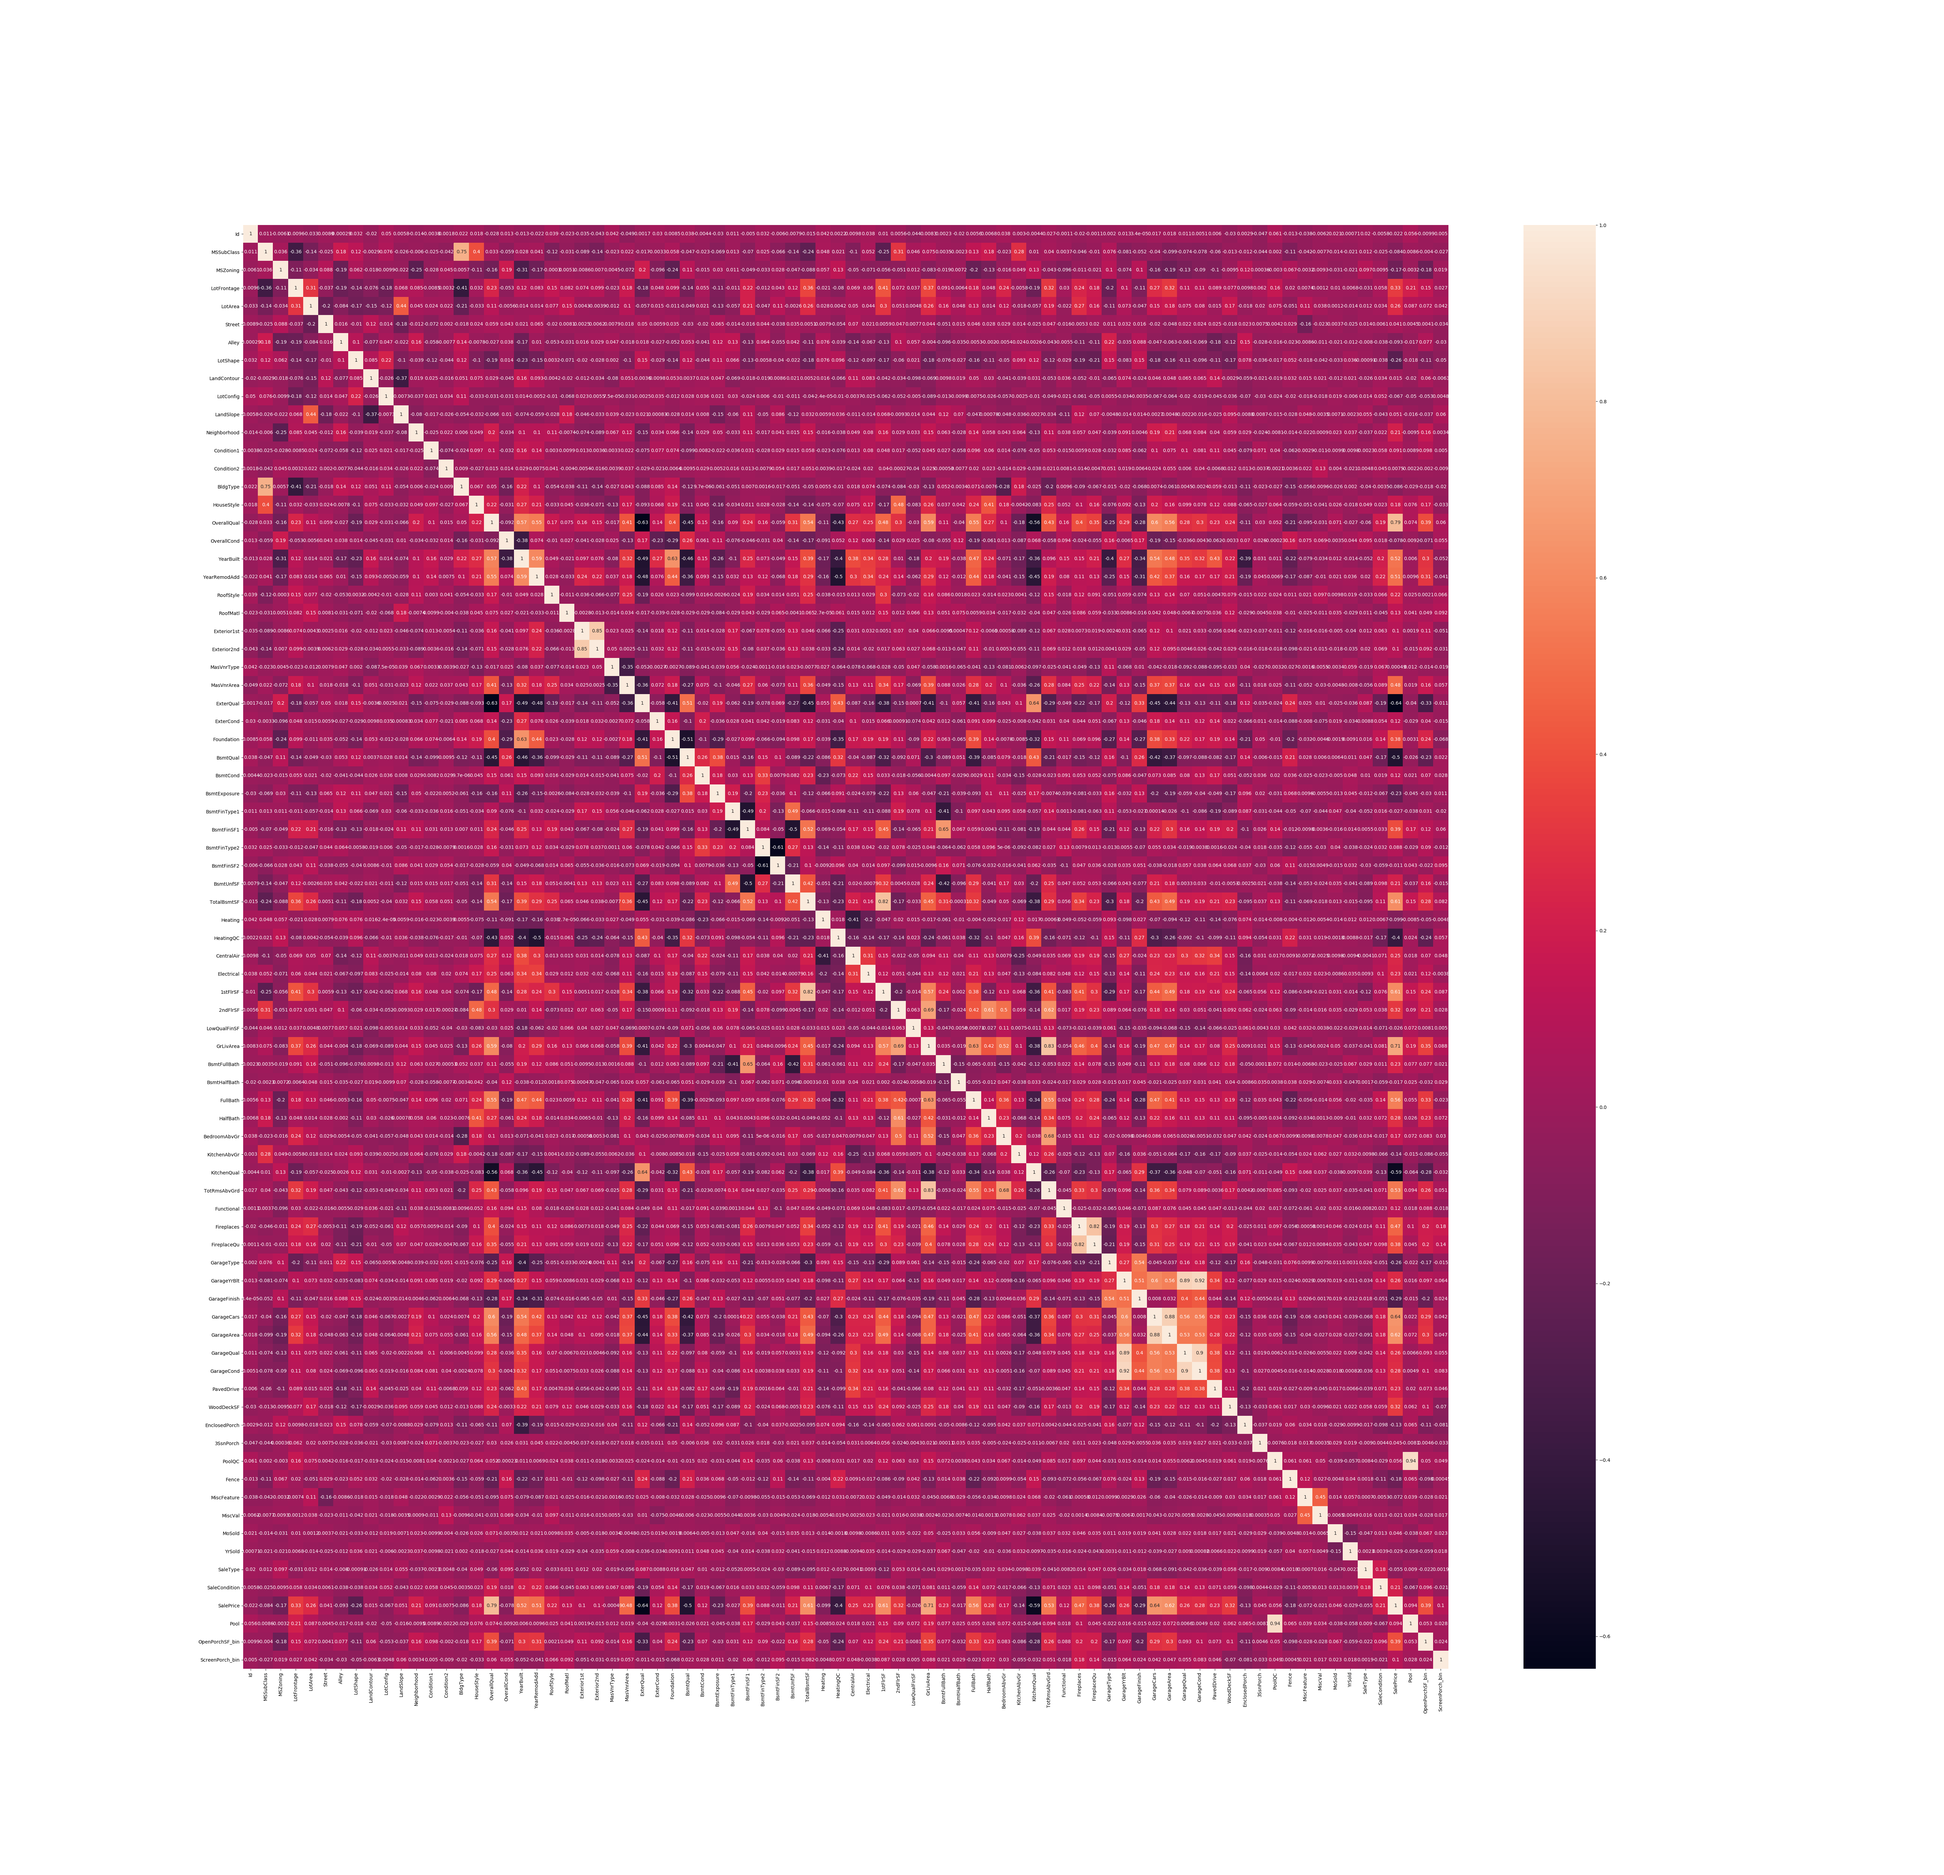
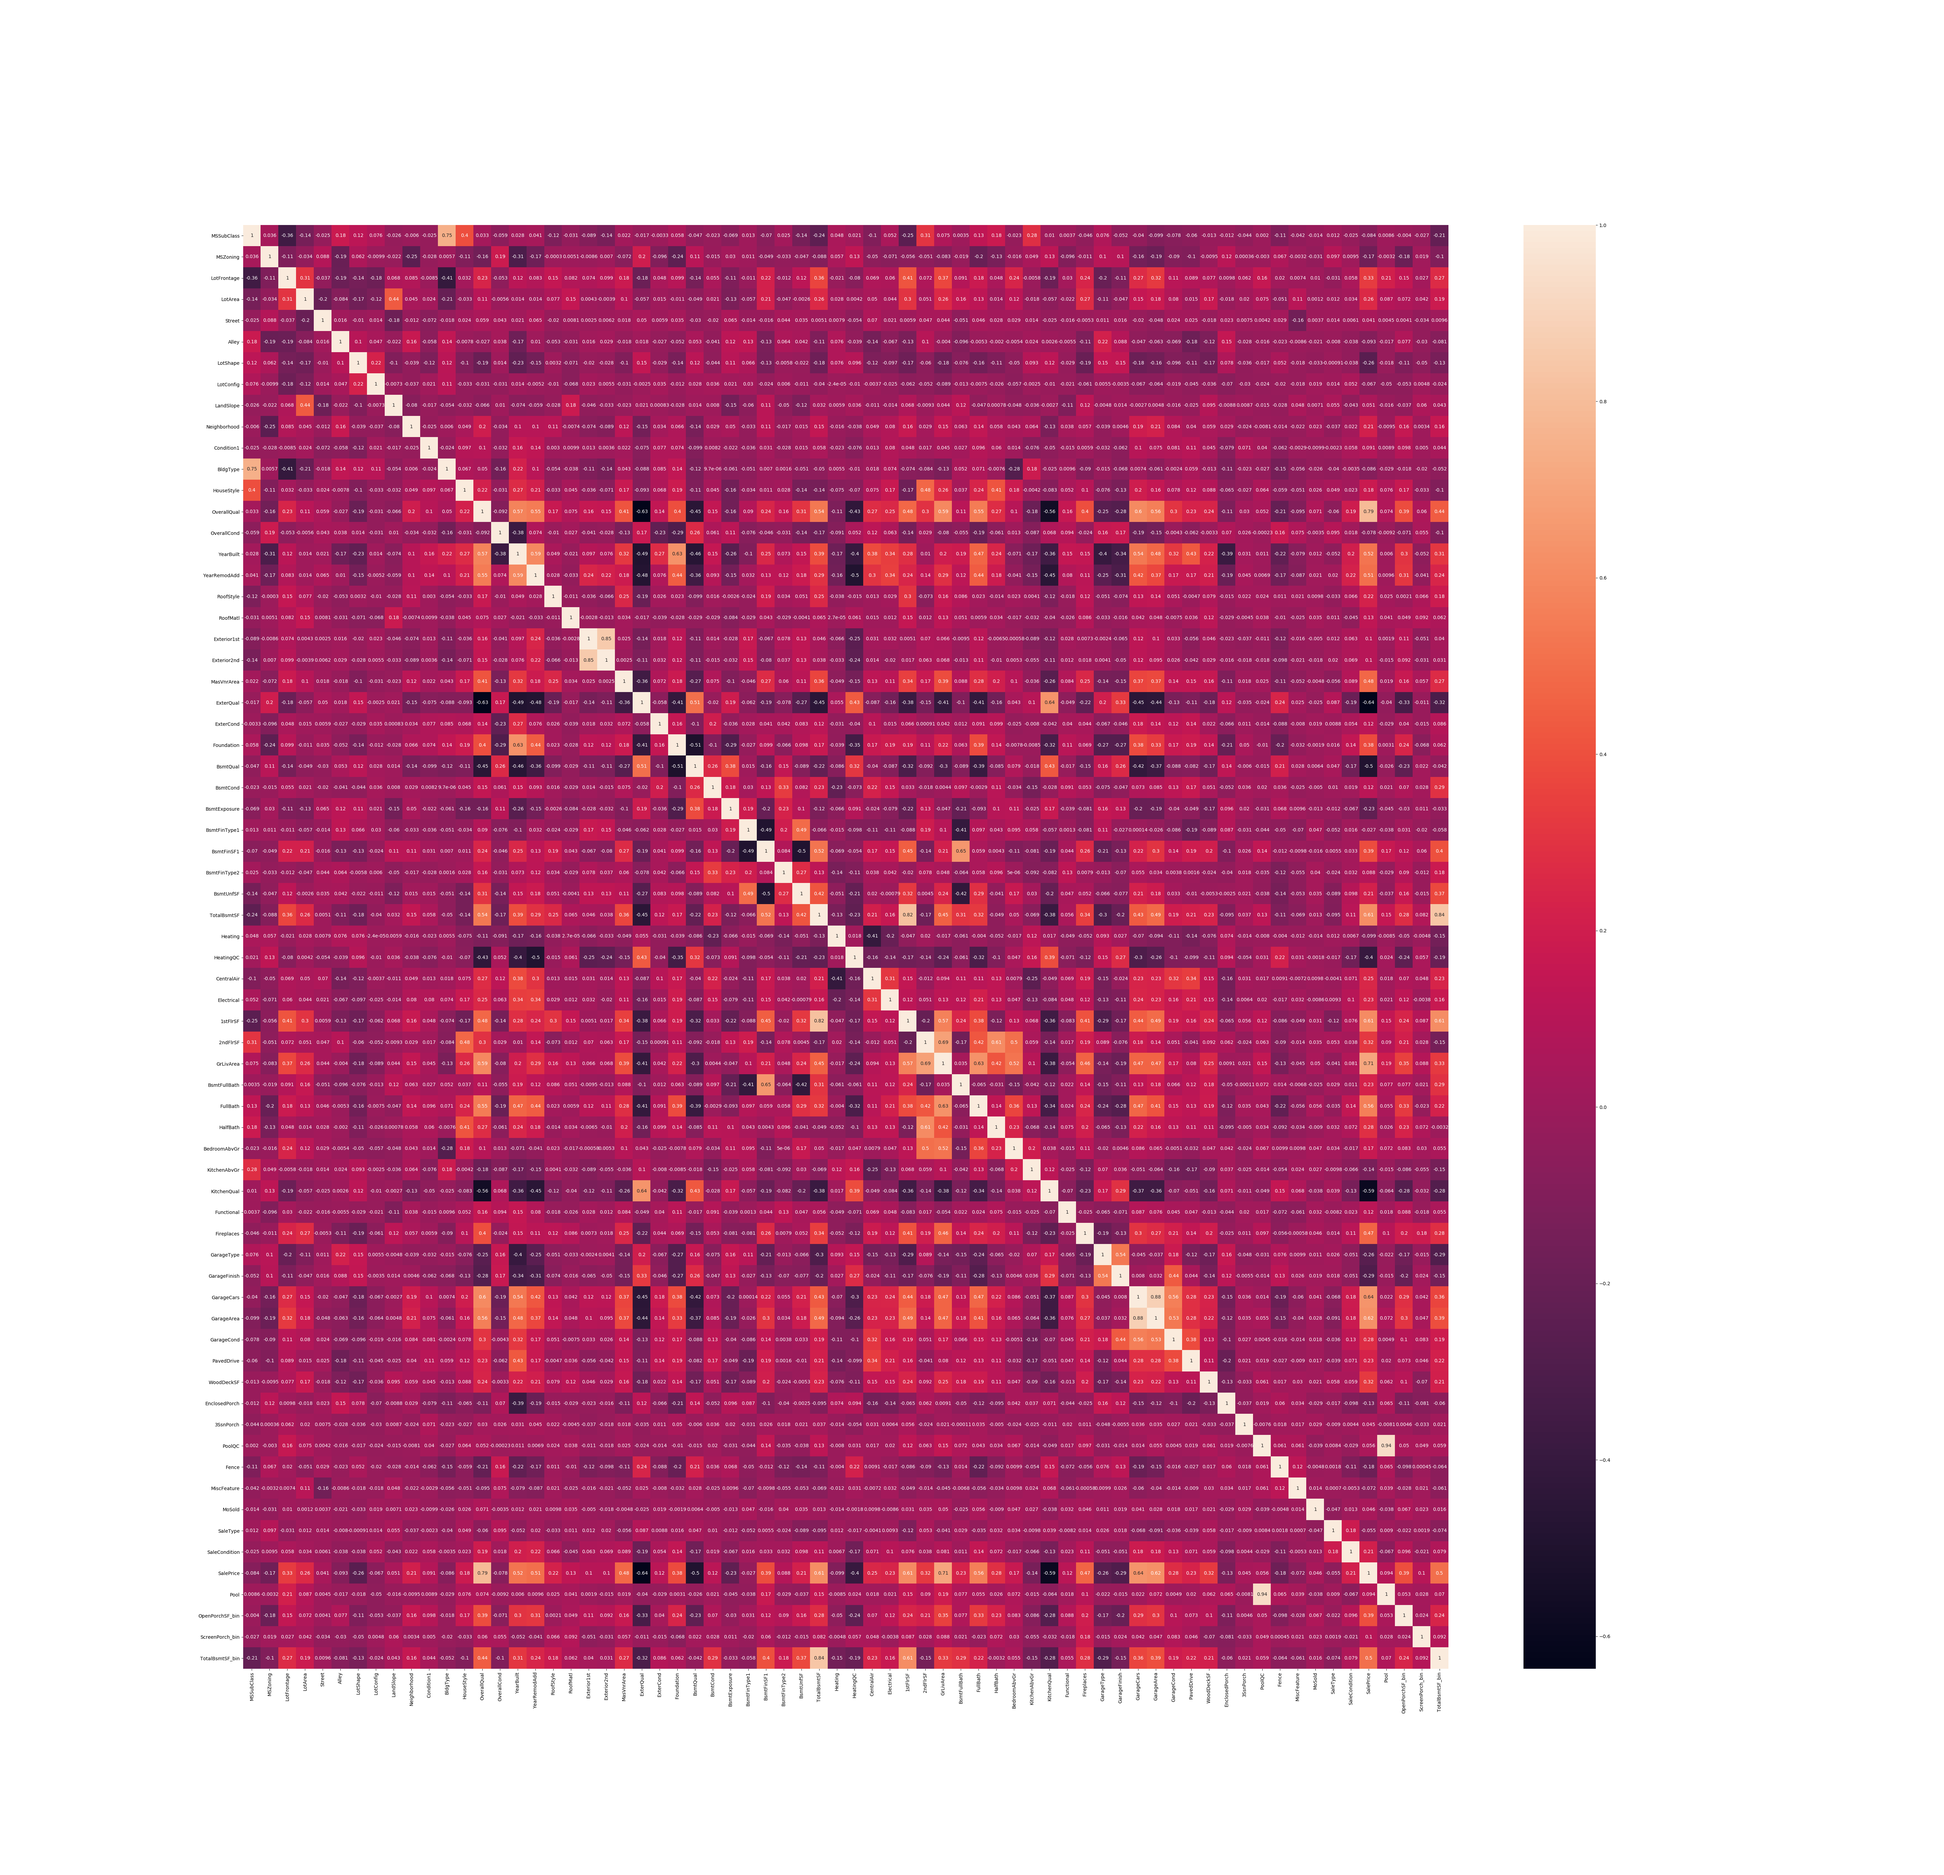
Update Features and Random Forest

Changed region(s): [[0.1249, 0.0933, 0.7495, 0.9016]]

diff --git a/train.py b/train.py
@@ -13,6 +13,7 @@ from sklearn.impute import SimpleImputer
 from sklearn import preprocessing 
 from sklearn import metrics
 
+
 #####import data
 train = pd.read_csv("train.csv")
 test = pd.read_csv("test.csv")
@@ -32,7 +33,7 @@ print(train.groupby('Neighborhood', as_index=False)['YearBuilt'].mean())
 data = [train,test]
 numeric_list = ['Alley','Street','PoolQC','MiscFeature','Pool']
 encode_list = ['GarageQual','GarageCond','GarageFinish','GarageType','Heating','HeatingQC','CentralAir','ExterCond','ExterQual','MSZoning','BsmtQual','BsmtCond','BsmtExposure','BsmtFinType1','BsmtFinType2','Foundation','PavedDrive','Functional','Electrical','SaleType','SaleCondition','Fence','FireplaceQu','KitchenQual','LotConfig','LandSlope','Neighborhood','LandContour','LotShape','Condition1','Condition2','BldgType','HouseStyle','RoofStyle','RoofMatl','Exterior1st','Exterior2nd','MasVnrType']
-drop_list = ['Utilities','PoolArea','OpenPorchSF','ScreenPorch']
+drop_list = ['Utilities','PoolArea','OpenPorchSF','ScreenPorch','GarageQual','FireplaceQu','MasVnrType','TotRmsAbvGrd','BsmtFinSF2','Condition2','LandContour','Id','MiscVal','YrSold','BsmtHalfBath','LowQualFinSF']
 garage_list = ['GarageType','GarageYrBlt','GarageFinish','GarageQual','GarageCond']
 bmst_list = ['BsmtQual','BsmtCond','BsmtExposure','BsmtFinType1','BsmtFinType2']
 
@@ -126,7 +127,7 @@ print(missing)
 
 ##Things to look into:  LotFrontage,LotArea,MasVnrArea,BsmtFinSF1,BsmtFinSF2,BsmtUnfSF,TotalBsmtSF,1stFlrSF,2ndFlrSF,GrLivArea,LowQualFinSF,GarageArea,OpenPorchSF,EnclosedPorch,3SsnPorch,ScreenPorch
 
-hist_list = ['LotFrontage','LotArea','MasVnrArea','BsmtFinSF1','BsmtFinSF2','BsmtUnfSF','TotalBsmtSF','1stFlrSF','2ndFlrSF','GrLivArea','LowQualFinSF','GarageArea','OpenPorchSF','EnclosedPorch','3SsnPorch','ScreenPorch']
+hist_list = ['LotFrontage','LotArea','MasVnrArea','BsmtFinSF1','TotalBsmtSF','1stFlrSF','2ndFlrSF','GrLivArea','LowQualFinSF','GarageArea','OpenPorchSF','EnclosedPorch','3SsnPorch','ScreenPorch']
 
 for i in hist_list:
 	train[[i]].hist()
@@ -135,11 +136,14 @@ for i in hist_list:
 	plt.close
 openpsf=(-np.inf, 1, 50, 100, 200, 1000)
 screenp=(-np.inf, 1, 100, 200, 1000)
-##bsmtsf=(-np.inf, 1, 500, 1000, 2000, 10000)
+bsmtsf=(-np.inf, 1, 500, 1000, 2000, 10000)
+#lotar=(-np.inf, 3000, 6000, 8000, 10000, 20000, 300000)
 for i in data:
 	i['OpenPorchSF_bin'] = pd.cut(x=i['OpenPorchSF'], bins=openpsf, labels=False)
 	i['ScreenPorch_bin'] = pd.cut(x=i['ScreenPorch'], bins=screenp, labels=False)
-	##i['TotalBsmtSF_bin'] = pd.cut(x=i['TotalBsmtSF'], bins=bsmtsf, labels=False)
+	i['TotalBsmtSF_bin'] = pd.cut(x=i['TotalBsmtSF'], bins=bsmtsf, labels=False)
+	#i['LotArea_bin'] = pd.cut(x=i['LotArea'], bins=lotar, labels=False)
+
 
 
 train = train.drop(drop_list, axis=1)
@@ -154,6 +158,8 @@ plt.savefig('graphs/heatmap.png')
 plt.close
 x=0
 
+print(train.corr()['SalePrice'].sort_values())
+
 #####define training and test sets
 X_train = train.drop("SalePrice", axis=1)
 Y_train = train["SalePrice"]
@@ -161,14 +167,38 @@ Y_train = train["SalePrice"]
 
 x_train, x_test, y_train, y_test = train_test_split(X_train, Y_train, test_size=0.3, random_state=666)
 
-logreg = LogisticRegression(max_iter=2000)
+######Fit and print score
+
+logreg = LogisticRegression(max_iter=1000)
 logreg.fit(x_train, y_train)
 Y_pred = logreg.predict(x_test)
 acc_log = round(logreg.score(x_train, y_train) * 100, 2)
-print('Accuracy Linear Regression:',acc_log)
+RMS = np.sqrt(metrics.mean_squared_log_error(y_test, Y_pred))
+print("The score is %.5f" % RMS )
 
 #####fit data Random Forest
-#clf_simple=RandomForestClassifier(n_estimators= 500, random_state=666)
-#clf_simple.fit(x_train,y_train)
-#Y_pred=clf_simple.predict(x_test)
-#print("Accuracy Simple Random Forest:",metrics.accuracy_score(y_test, Y_pred))
+clf_simple=RandomForestClassifier(n_estimators= 500, random_state=666)
+clf_simple.fit(x_train,y_train)
+Y_pred=clf_simple.predict(x_test)
+print("Accuracy Simple Random Forest:",np.sqrt(metrics.mean_squared_log_error(y_test, Y_pred)))
+
+#####Optimize Hyperparameters
+# clf=RandomForestClassifier(random_state=666)
+# param_grid = { 
+#     'n_estimators': [100, 200],
+#     #'min_samples_split': [2, 5, 10, 15, 100],
+# 	#'min_samples_leaf': [1, 2, 5],
+#     'max_features': ['auto', 'sqrt', 'log2'],
+#     'max_depth' : [3,4,5,6],
+#     'criterion' :['gini', 'entropy'] 
+# }
+# CV_clf = GridSearchCV(estimator=clf, param_grid=param_grid, cv= 5)
+# CV_clf.fit(x_train, y_train)
+# print('Optimized Random Forest Classifier:')
+# print(CV_clf.best_params_)
+
+#####Optimized Random Forest
+clf_final=RandomForestClassifier(max_features='auto', n_estimators= 100, max_depth=3, criterion='entropy', random_state=666)
+clf_final.fit(x_test,y_test)
+Y_pred=clf_final.predict(x_test)
+print("Accuracy Optimized Random Forest:",np.sqrt(metrics.mean_squared_log_error(y_test, Y_pred)))
